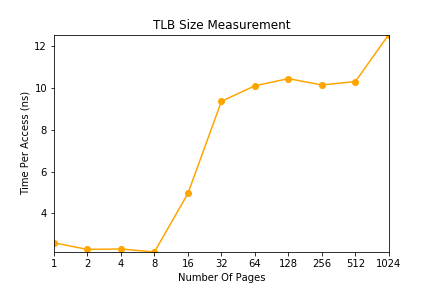
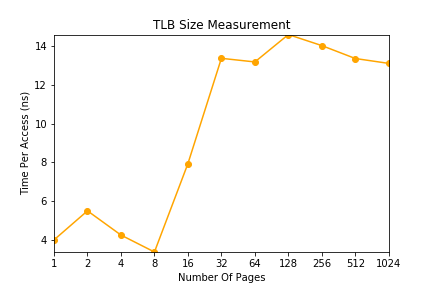
set CPU, init array

diff --git a/19/tlb.c b/19/tlb.c
@@ -1,22 +1,34 @@
+#define _GNU_SOURCE
 #include <stdio.h>
 #include <stdlib.h>
 #include <unistd.h>
 #include <sys/time.h>
+#include <sched.h>
 
 int main(int argc, char *argv[]) {
-    int PAGESIZE = getpagesize();
-    int jump = PAGESIZE / sizeof(int);
+    cpu_set_t set;
+    CPU_ZERO(&set);
+    CPU_SET(0, &set);
+
+    if (sched_setaffinity(getpid(), sizeof(set), &set) == -1) {
+        printf("Set CPU affinity error\n");
+        exit(1);
+    }
+
     if (argc != 3) {
         printf("Need the number of pages and the number of trials\n");
         exit(1);
     }
+
+    int PAGESIZE = getpagesize();
+    int jump = PAGESIZE / sizeof(int);
     int NUMPAGES = atoi(argv[1]);
     int count = atoi(argv[2]);
     if (NUMPAGES <= 0 || count <= 0) {
         printf("Invalid input\n");
         exit(1);
     }
-    int a[NUMPAGES * jump];
+    int *a = (int *) calloc(NUMPAGES * jump, sizeof(int));
     struct timeval start, end;
     int startReturn = gettimeofday(&start, NULL);
     for(size_t j = 0; j < count; j++) {
@@ -33,5 +45,6 @@ int main(int argc, char *argv[]) {
     int nloops = count * NUMPAGES;
     // nanoseconds
     printf("%f\n", (float) (end.tv_sec * 1000000 + end.tv_usec - start.tv_sec * 1000000 - start.tv_usec) * 1000 / nloops);
+    free(a);
     return 0;
 }

diff --git a/19/plot.py b/19/plot.py
@@ -10,7 +10,7 @@ parser.add_argument("trials", help="set iteration number")
 args = parser.parse_args()
 
 if not os.path.isfile("./tlb.out"):
-    subprocess.run(["gcc", "-o", "tlb.out", "tlb.c", "-Wall"])
+    subprocess.run(["gcc", "-O0", "-o", "tlb.out", "tlb.c", "-Wall"])
 
 y = []
 a = np.arange(11)

diff --git a/19/README.md b/19/README.md
@@ -1,4 +1,4 @@
-# PAGING: FASTER TRANSLATIONS (TLBS)
+# Paging: Faster Translations (TLBs)
 
 ## Homework (Measurement)
 
@@ -19,3 +19,15 @@
 4. Next, graph the results, making a graph that looks similar to the one above. Use a good tool like `ploticus` or even `zplot`. Visualization usually makes the data much easier to digest; why do you think that is?
 
     ![](./tlb.png)
+
+5. One thing to watch out for is compiler optimization. Compilers do all sorts of clever things, including removing loops which increment values that no other part of the program subsequently uses. How can you ensure the compiler does not remove the main loop above from your TLB size estimator?
+
+    Using gcc's optimize option `gcc -O0` to disable optimization. This is the default setting.
+
+6. Another thing to watch out for is the fact that most systems today ship with multiple CPUs, and each CPU, of course, has its own TLB hierarchy. To really get good measurements, you have to run your code on just one CPU, instead of letting the scheduler bounce it from one CPU to the next. How can you do that? (hint: look up “pinning a thread” on Google for some clues) What will happen if you don’t do this, and the code moves from one CPU to the other?
+
+    `sched_setaffinity()`
+
+7. Another issue that might arise relates to initialization. If you don’t initialize the array a above before accessing it, the first time you access it will be very expensive, due to initial access costs such as demand zeroing. Will this affect your code and its timing? What can you do to counterbalance these potential costs?
+
+    `calloc()`
